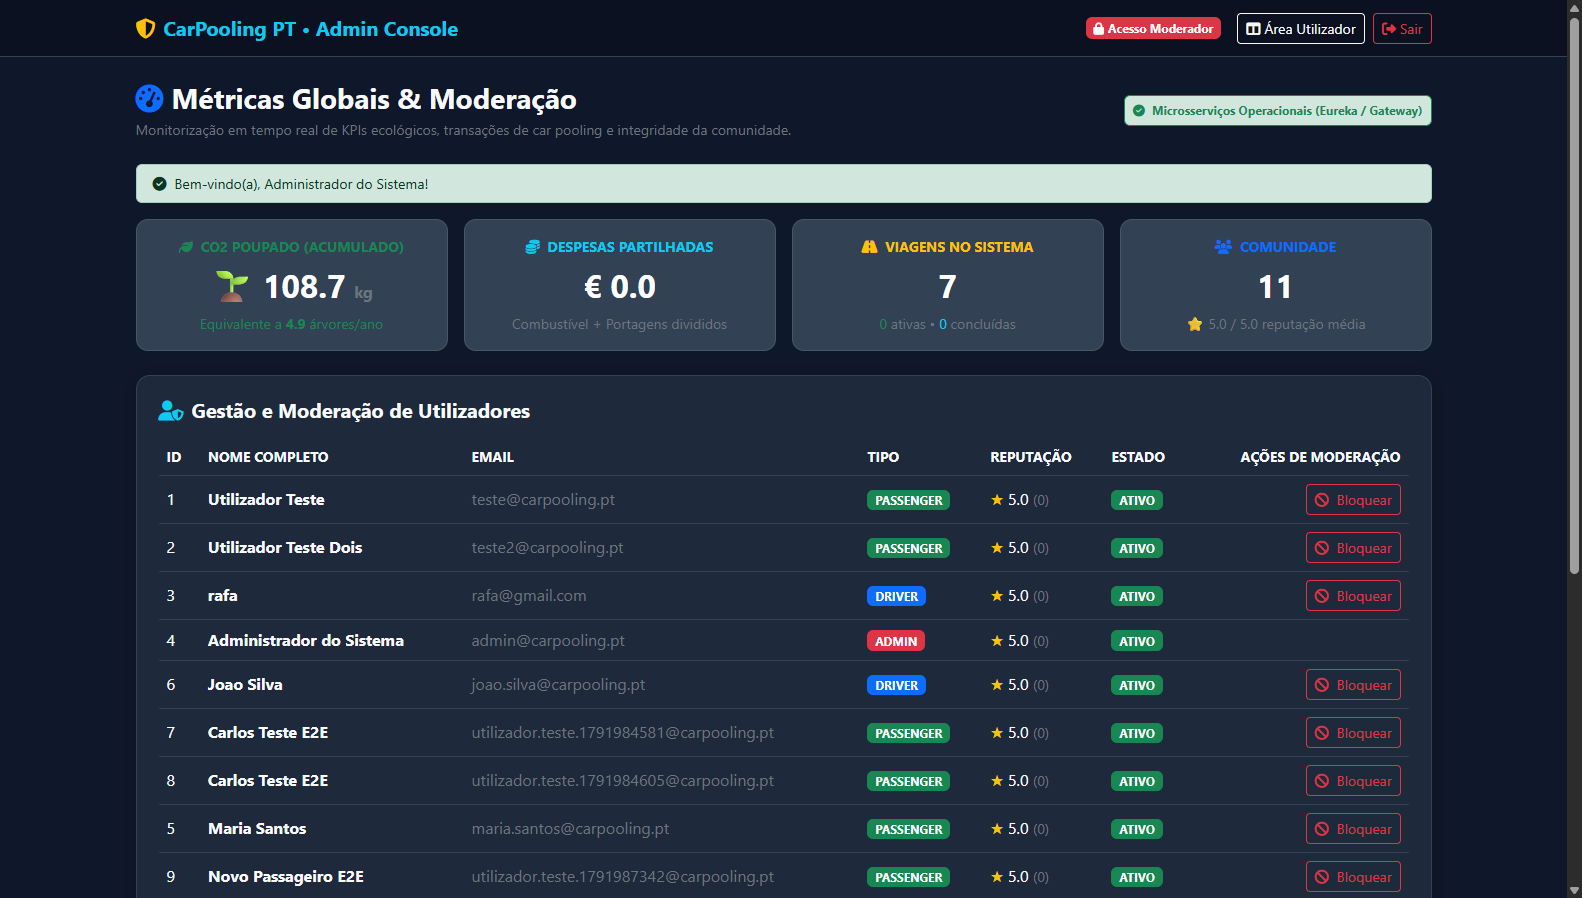
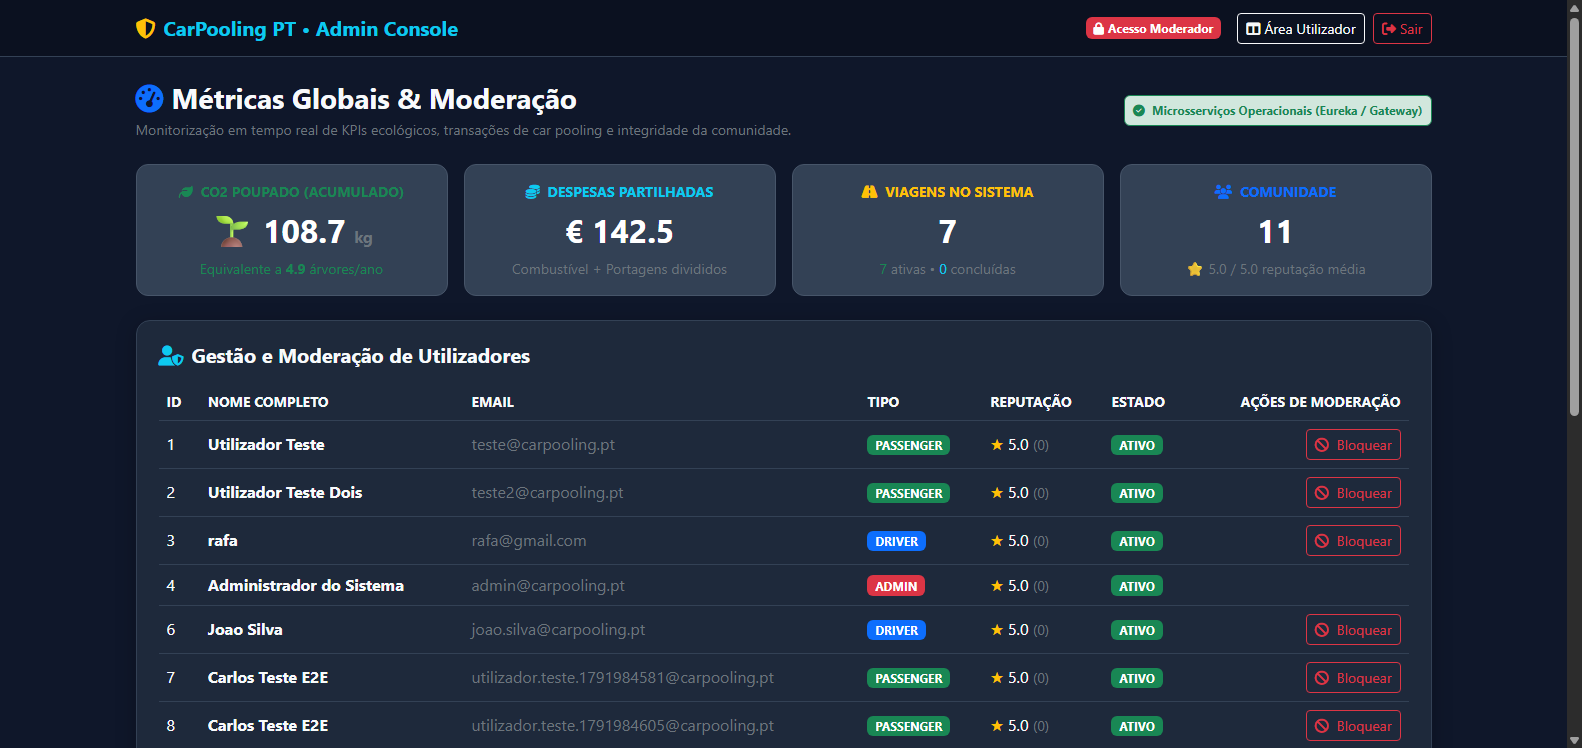
docs: audit and polish all screenshots with populated data and RabbitMQ queues

diff --git a/admin-service/src/main/java/com/carpooling/admin/service/AdminService.java b/admin-service/src/main/java/com/carpooling/admin/service/AdminService.java
@@ -43,7 +43,7 @@ public class AdminService {
                 .orElse(5.0);
 
         long totalTrips = trips.size();
-        long activeTrips = trips.stream().filter(t -> "SCHEDULED".equalsIgnoreCase(t.getStatus()) || "ACTIVE".equalsIgnoreCase(t.getStatus()) || "STARTED".equalsIgnoreCase(t.getStatus())).count();
+        long activeTrips = trips.stream().filter(t -> "OPEN".equalsIgnoreCase(t.getStatus()) || "IN_PROGRESS".equalsIgnoreCase(t.getStatus()) || "SCHEDULED".equalsIgnoreCase(t.getStatus()) || "ACTIVE".equalsIgnoreCase(t.getStatus()) || "STARTED".equalsIgnoreCase(t.getStatus())).count();
         long completedTrips = trips.stream().filter(t -> "COMPLETED".equalsIgnoreCase(t.getStatus())).count();
         long cancelledTrips = trips.stream().filter(t -> "CANCELLED".equalsIgnoreCase(t.getStatus())).count();
 
